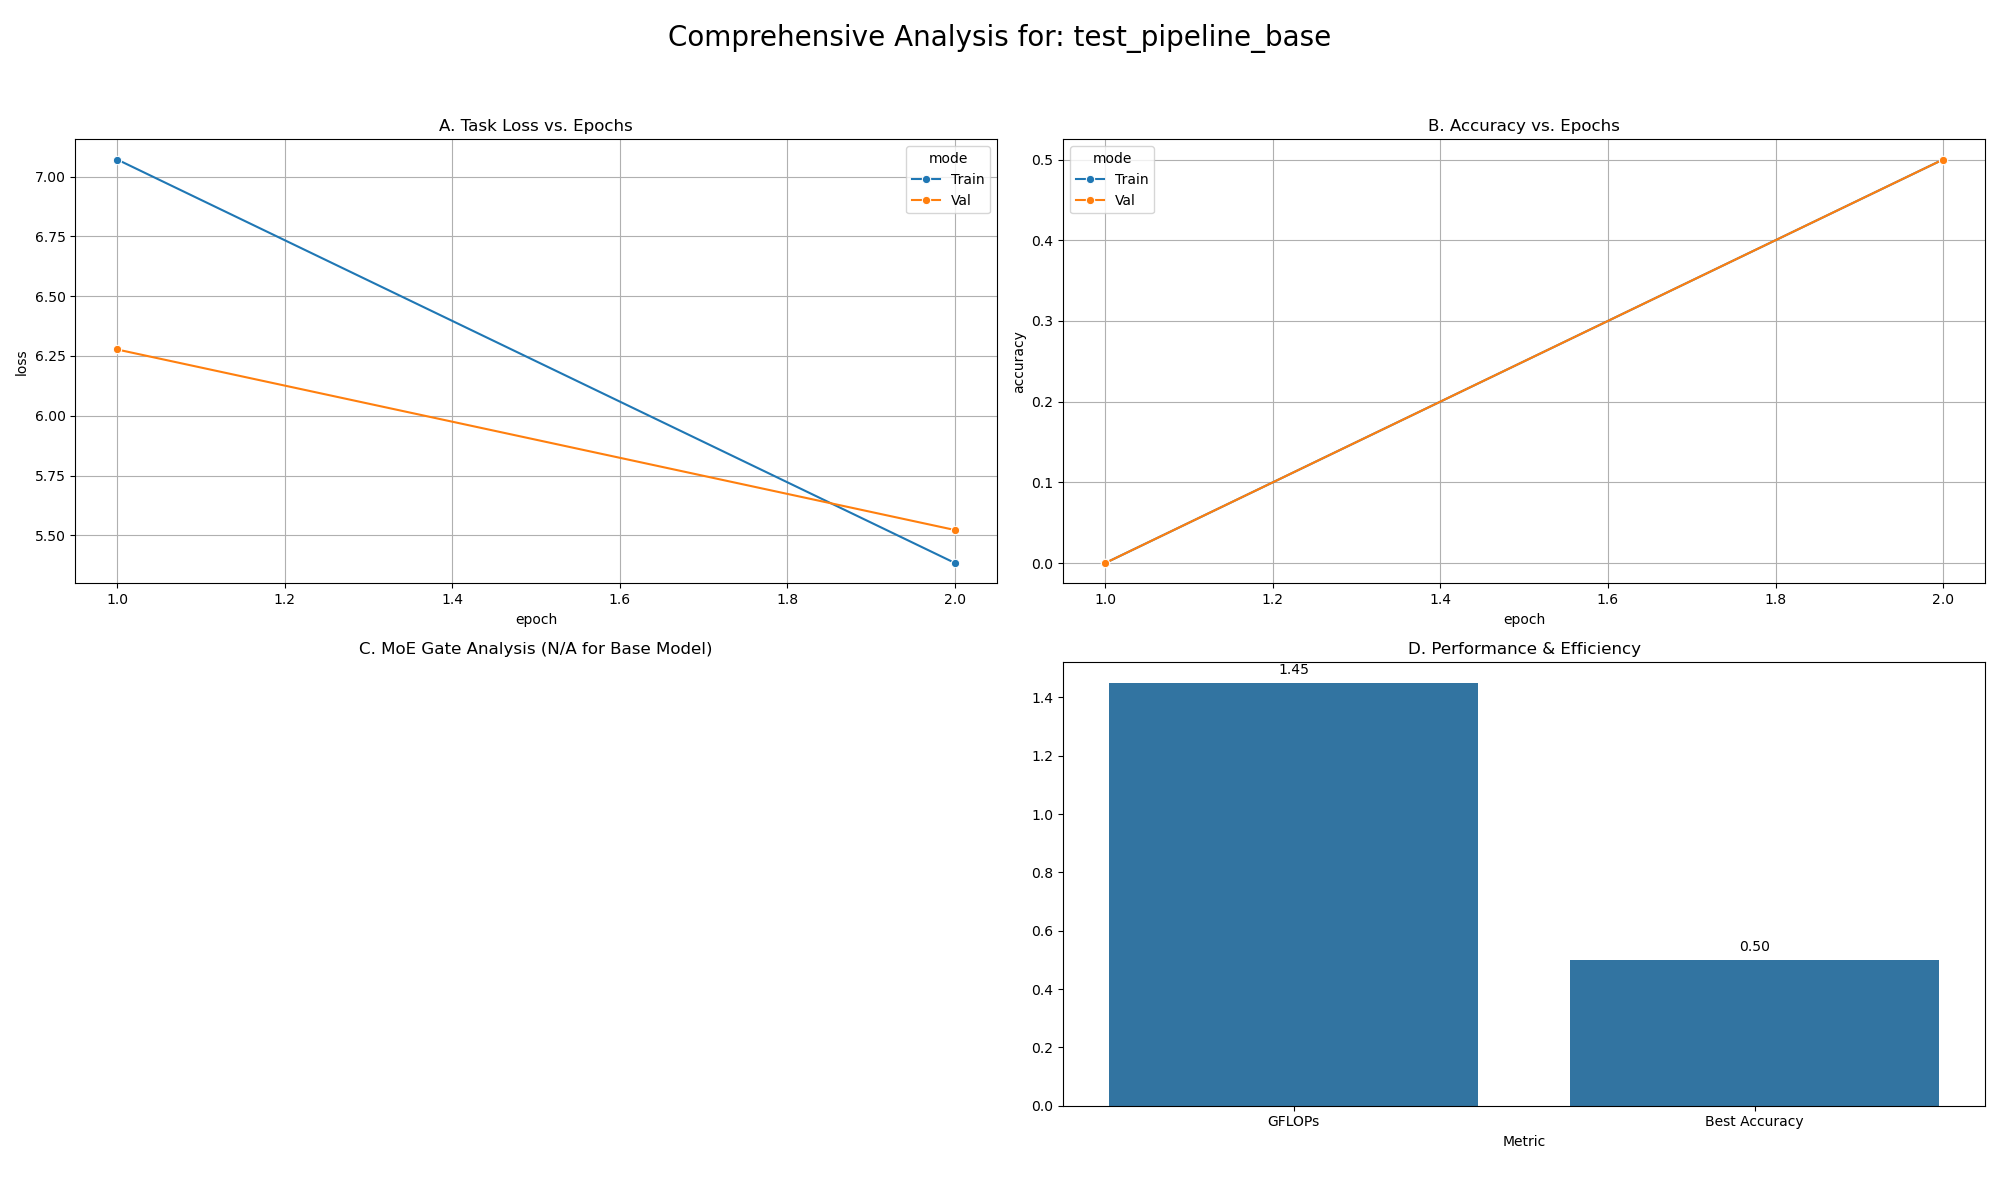
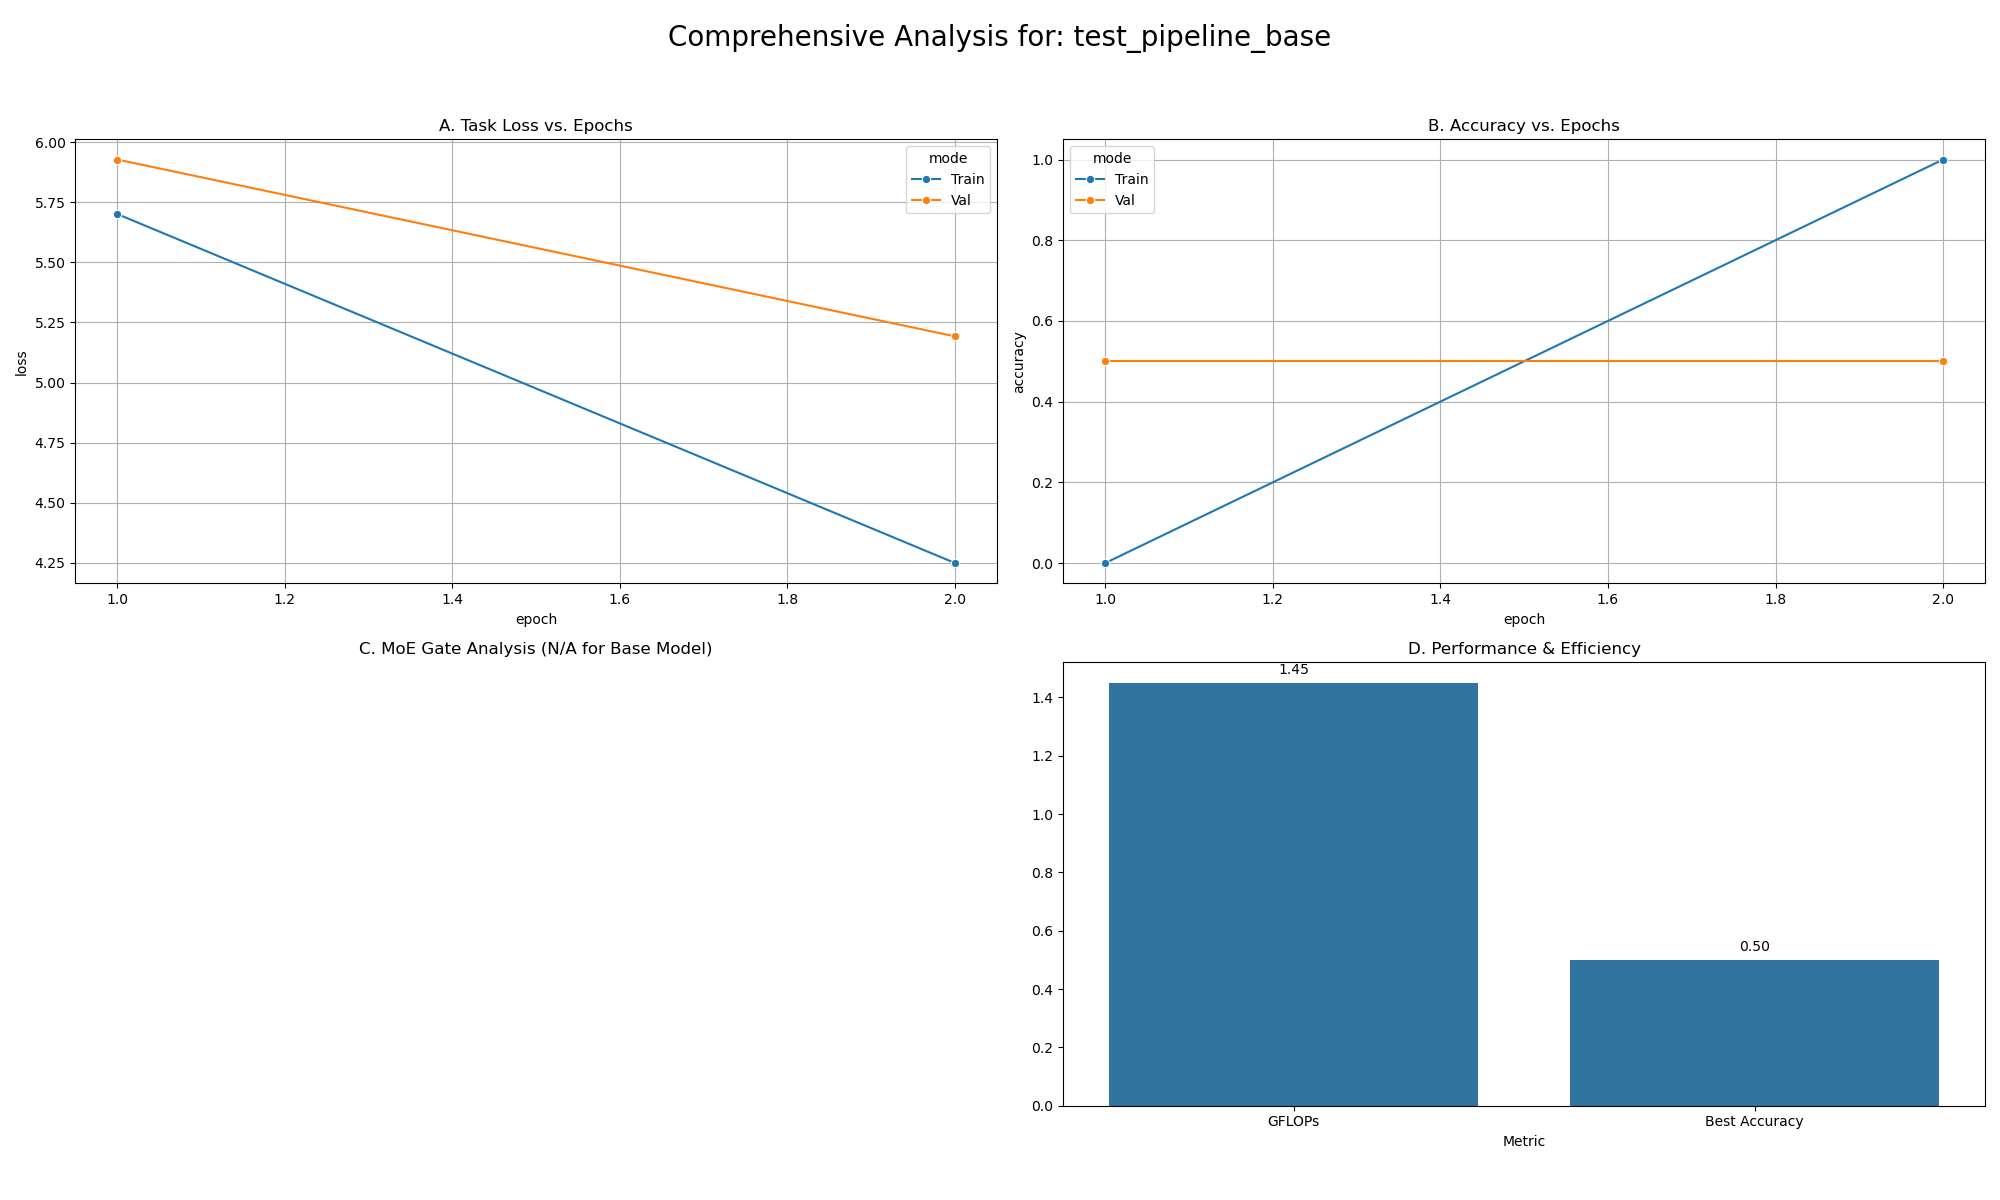
final 4 2 2 testing

diff --git a/train_test_pipeline.py b/train_test_pipeline.py
@@ -1,9 +1,9 @@
 # train_test_pipeline.py
-# A special, NON-DESTRUCTIVE script to run a full pipeline test on a tiny data subset.
-# FINAL CORRECTED VERSION - This harmonizes configs perfectly.
+# FINAL-FINAL VERSION with the device placement fix for testing.
 
 import yaml
 import torch
+import os
 from argparse import ArgumentParser
 from dotmap import DotMap
 
@@ -13,6 +13,16 @@ from models.base_vit import BaseVit
 from models.moe_vit_karm import TemporalMoEViT
 from train.trainer import Trainer
 
+# --- Helper function to save and load checkpoints for the test ---
+def save_best_model(model, config, model_type):
+    """Saves the model state to the test checkpoint directory."""
+    checkpoint_dir = config.logging.checkpoint_dir
+    os.makedirs(checkpoint_dir, exist_ok=True)
+    checkpoint_path = os.path.join(checkpoint_dir, f"test_pipeline_{model_type}_best.pt")
+    torch.save(model.state_dict(), checkpoint_path)
+    print(f"\nSaved best model checkpoint for '{model_type}' to: {checkpoint_path}")
+    return checkpoint_path
+
 if __name__ == '__main__':
     parser = ArgumentParser(description="Run a FAST pipeline test on a minimal data split.")
     parser.add_argument('--test_config', type=str, default='config/test_pipeline.yaml')
@@ -21,39 +31,69 @@ if __name__ == '__main__':
     with open(args.test_config) as f:
         config = DotMap(yaml.safe_load(f))
 
-    print("\n" + "="*50)
-    print("--- STARTING PIPELINE TEST ON MINIMAL DATA SPLIT ---")
+    print("\n" + "="*80)
+    print("--- STARTING FULL (TRAIN-VALIDATE-TEST) PIPELINE TEST ON MINIMAL DATA ---")
     print(f"Using FULL Test Config: {args.test_config}")
-    print("="*50)
+    print("="*80)
 
-    print("\n[Step 1] Loading full dataset metadata...")
+    # 1. Load the FULL metadata and vocab
+    print("\n[PHASE 1] Loading full dataset metadata...")
     train_meta_full, val_meta_full, test_meta_full, vocab = get_and_split_data(config)
     print("Full metadata loaded successfully.")
 
-    print("\n[Step 2] Slicing data into a 4-train, 2-val, 2-test split...")
-    train_meta_test, val_meta_test = train_meta_full[:4], val_meta_full[:2]
-    print(f"Data sliced: {len(train_meta_test)} train, {len(val_meta_test)} val samples.")
+    # 2. Slice the data into a tiny 4-2-2 split
+    print("\n[PHASE 2] Slicing data into a 4-train, 2-val, 2-test split...")
+    train_meta_test = train_meta_full[:4]
+    val_meta_test = val_meta_full[:2]
+    test_meta_test = test_meta_full[:2] 
+    print(f"Data sliced: {len(train_meta_test)} train, {len(val_meta_test)} val, {len(test_meta_test)} test samples.")
     
-    print("\n[Step 3] Creating dataloaders for the tiny data split...")
+    # 3. Create dataloaders for all three splits
+    print("\n[PHASE 3] Creating dataloaders for all splits...")
     train_loader = create_dataloader(config, 'train', train_meta_test, vocab)
     val_loader = create_dataloader(config, 'val', val_meta_test, vocab)
+    test_loader = create_dataloader(config, 'test', test_meta_test, vocab)
     print("Dataloaders created successfully.")
 
+    # 4. The Main Loop: Train, Validate, and finally Test each model
     for model_type in ['base', 'moe']:
-        print("\n" + "-"*50)
-        print(f"--- TESTING MODEL TYPE: {model_type.upper()} ---")
+        print("\n" + "="*50)
+        print(f"--- PROCESSING MODEL TYPE: {model_type.upper()} ---")
         
-        # --- NEW: Set a descriptive run name for plotting ---
+        # --- 4A: TRAINING & VALIDATION ---
+        print("\n--- Running Training & Validation Phase ---")
         config.run_name = f"test_pipeline_{model_type}"
         
         if model_type == 'base': model = BaseVit(config)
         else: model = TemporalMoEViT(config)
         
         optimizer = torch.optim.AdamW(model.parameters(), lr=config.training.learning_rate)
-        # The new Trainer will automatically print complexity analysis and plot history
         trainer = Trainer(config, model, optimizer, train_loader, val_loader)
         trainer.train()
 
-    print("\n" + "="*50)
-    print("--- PIPELINE TEST FINISHED SUCCESSFULLY! ---")
-    print("="*50)
+        best_checkpoint_path = save_best_model(model, config, model_type)
+        
+        # --- 4B: FINAL TESTING ---
+        print(f"\n--- Running Final Testing Phase for '{model_type}' ---")
+        if model_type == 'base': test_model = BaseVit(config)
+        else: test_model = TemporalMoEViT(config)
+            
+        test_model.load_state_dict(torch.load(best_checkpoint_path, map_location=config.training.device))
+        print("Successfully loaded best model checkpoint for testing.")
+
+        # --- THIS IS THE FIX ---
+        # We must move the newly loaded model to the GPU before evaluation.
+        test_model.to(config.training.device)
+        
+        evaluator = Trainer(config, test_model, optimizer=None, train_loader=None, val_loader=test_loader)
+        test_results = evaluator._run_epoch(epoch=0, is_training=False)
+        
+        print("\n" + "-"*50)
+        print("--- TEST SET PERFORMANCE ---")
+        print(f"Model Type: {model_type.upper()}")
+        print(f"Final Test Accuracy: {test_results['accuracy']:.4f}")
+        print("-"*50)
+
+    print("\n" + "="*80)
+    print("--- FULL (TRAIN-VALIDATE-TEST) PIPELINE TEST FINISHED SUCCESSFULLY! ---")
+    print("="*80)
